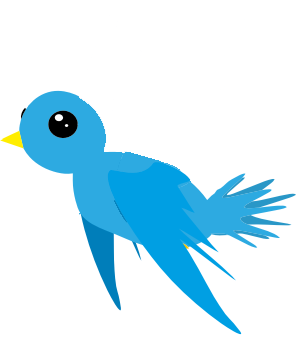
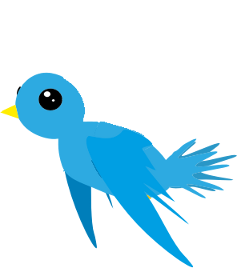
[media, flappy-balloon]: Rescale bird to be 80% original size

diff --git a/flappy-balloon.py b/flappy-balloon.py
@@ -72,8 +72,8 @@ class Balloon(pygame.sprite.Sprite):
         return Rect(self.x, self.y, Balloon.WIDTH, Balloon.HEIGHT)
 
 class Bird(pygame.sprite.Sprite):
-    WIDTH = 296
-    HEIGHT = 260
+    WIDTH = 237
+    HEIGHT = 280
     FLAP_SPEED = 100 # ms delay between flaps
 
     def __init__(self, images):
